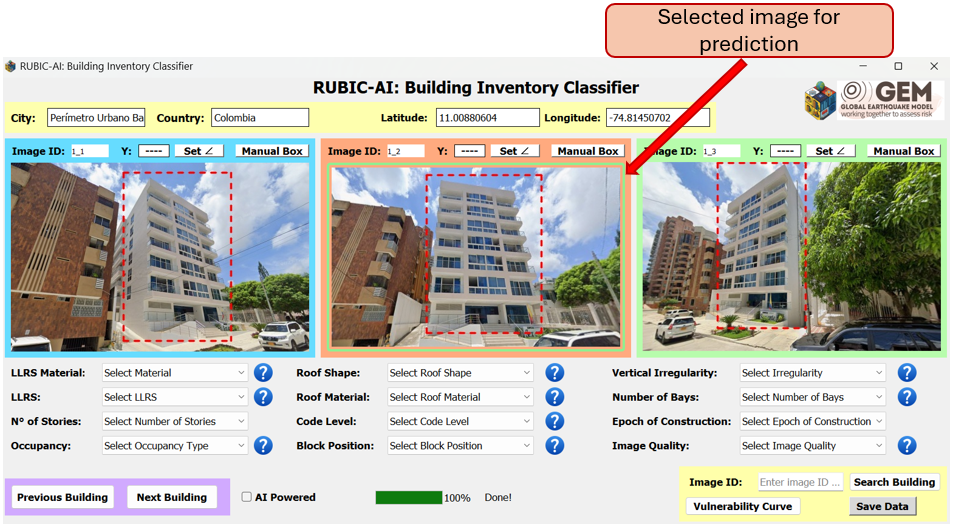
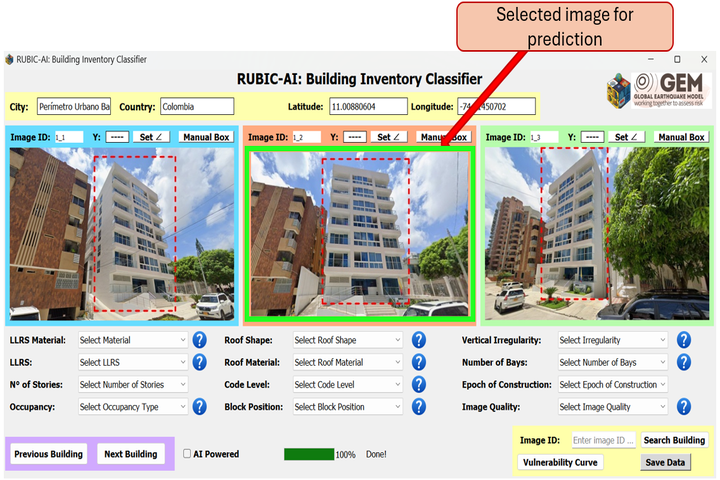
img

Changed region(s): [[0.0, 0.0, 1.0, 1.0], [0.0, 0.0938, 0.2139, 0.1562], [0.3972, 0.9062, 0.55, 0.9688]]

diff --git a/methods/gui_methods.py b/methods/gui_methods.py
@@ -3585,14 +3585,14 @@ class GUIMethods:
                             j = 1
                             # Highlight the image used for AI-prediction
                             self.ui.left_gsv_bb.setContentsMargins(0, 0, 0, 0)
-                            self.ui.central_gsv_bb.setContentsMargins(4, 4, 4, 4)
+                            self.ui.central_gsv_bb.setContentsMargins(8, 8, 8, 8)
                             self.ui.right_gsv_bb.setContentsMargins(0, 0, 0, 0)
                         elif self.predicted_img[0] == 1:
                             # Left image
                             pred_img = True
                             j = 0
                             # Highlight the image used for AI-prediction
-                            self.ui.left_gsv_bb.setContentsMargins(4, 4, 4, 4)
+                            self.ui.left_gsv_bb.setContentsMargins(8, 8, 8, 8)
                             self.ui.central_gsv_bb.setContentsMargins(0, 0, 0, 0)
                             self.ui.right_gsv_bb.setContentsMargins(0, 0, 0, 0)
                         elif self.predicted_img[2] == 1:
@@ -3602,7 +3602,7 @@ class GUIMethods:
                             # Highlight the image used for AI-prediction
                             self.ui.left_gsv_bb.setContentsMargins(0, 0, 0, 0)
                             self.ui.central_gsv_bb.setContentsMargins(0, 0, 0, 0)
-                            self.ui.right_gsv_bb.setContentsMargins(4, 4, 4, 4)
+                            self.ui.right_gsv_bb.setContentsMargins(8, 8, 8, 8)
 
                     if pred_img is True:
                         image_file = self.cropped_image[j]
@@ -3672,7 +3672,7 @@ class GUIMethods:
                     )
                     cropped_path = os.path.splitext(aux_path)[0] + "_cropped.jpg"
                     # Highlight the image used for AI-prediction
-                    self.ui.left_gsv_bb.setContentsMargins(4, 4, 4, 4)
+                    self.ui.left_gsv_bb.setContentsMargins(8, 8, 8, 8)
                     self.ui.central_gsv_bb.setContentsMargins(0, 0, 0, 0)
                     self.ui.right_gsv_bb.setContentsMargins(0, 0, 0, 0)
                     image = cv2.imread(cropped_path, cv2.IMREAD_COLOR)
